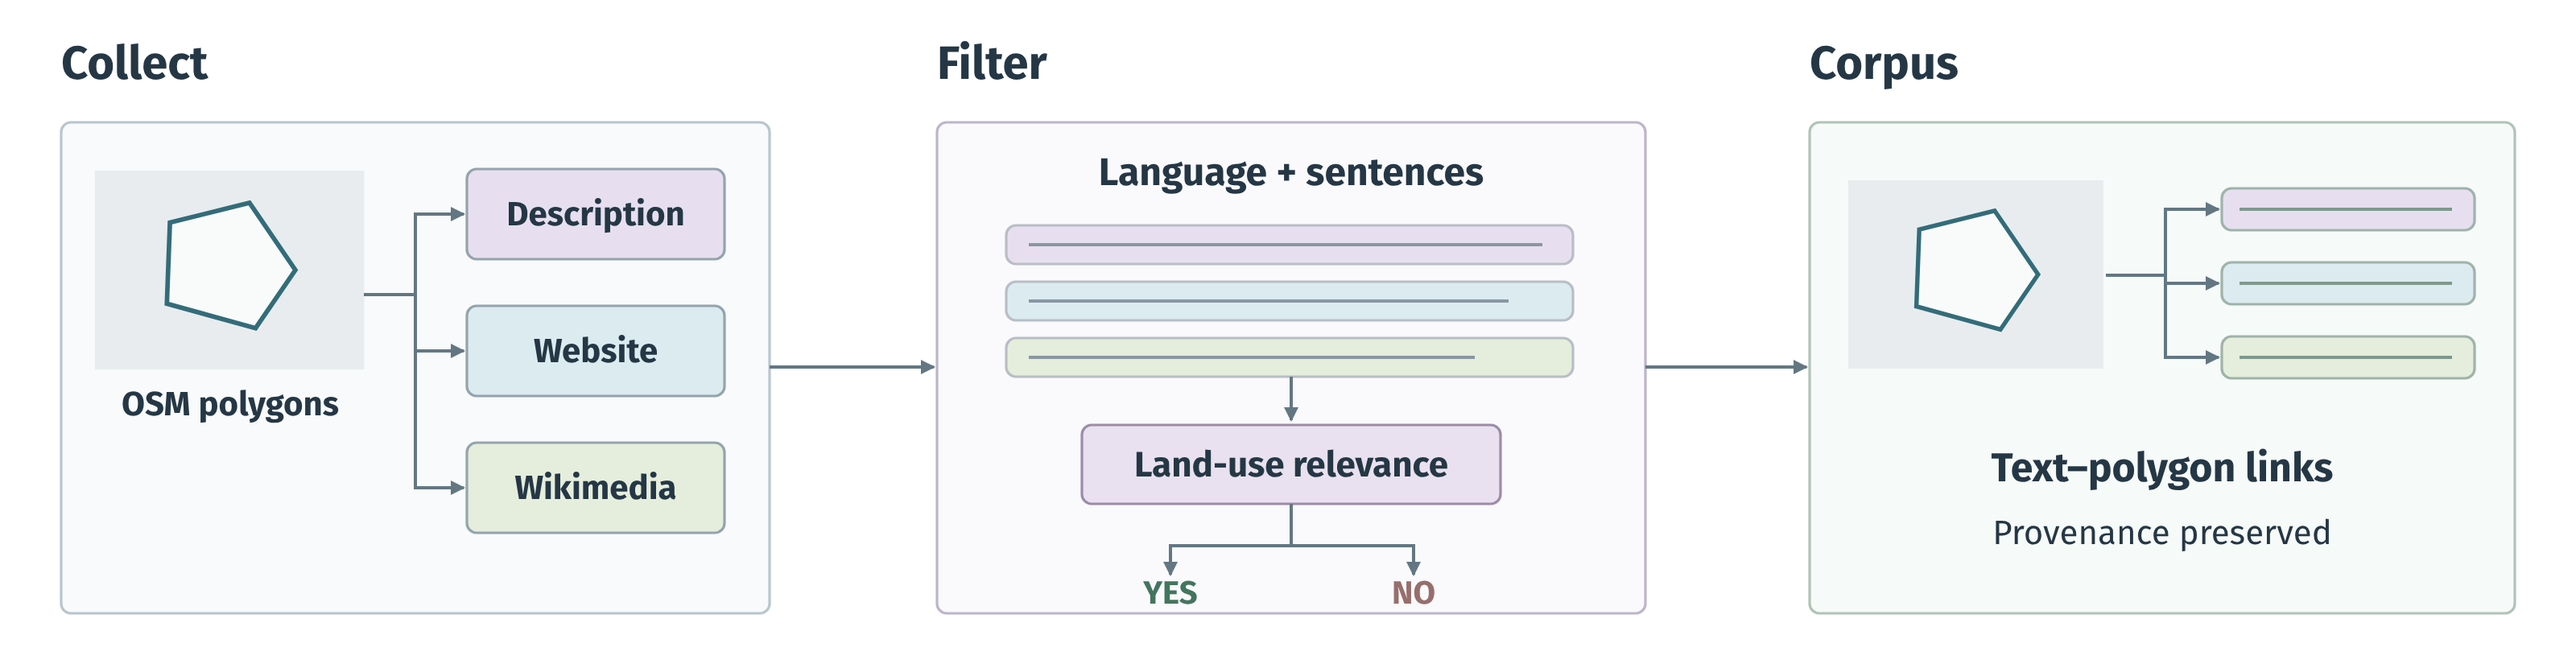
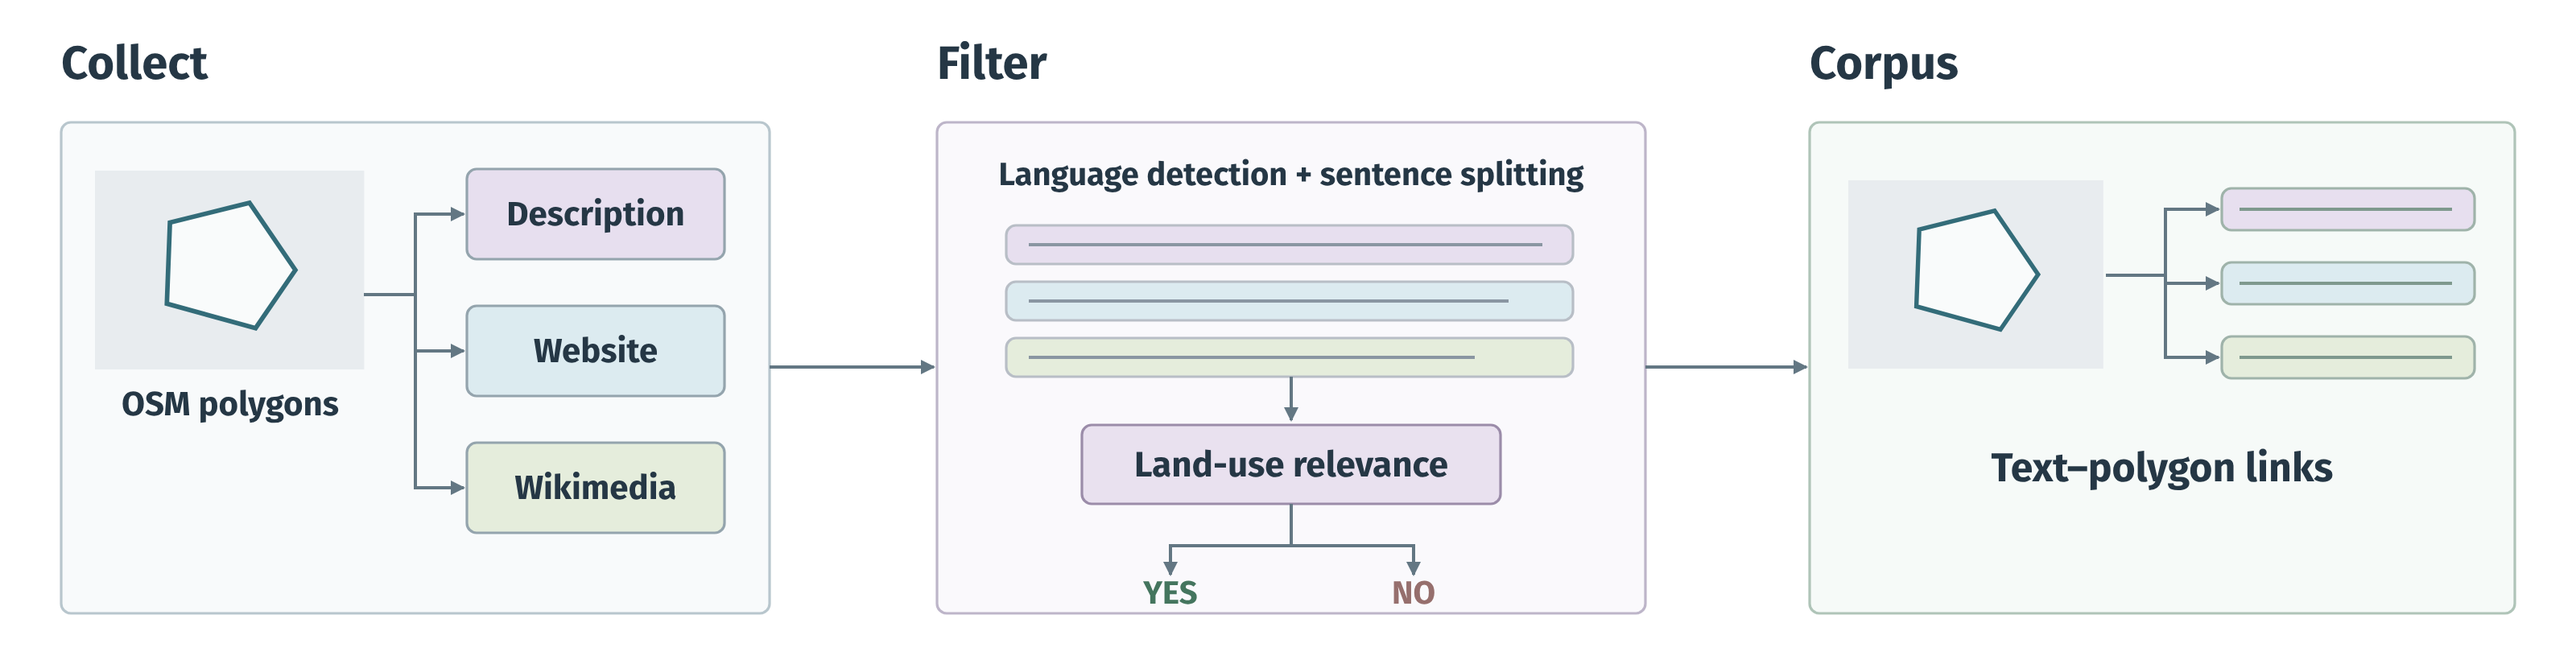
Card: concise methodology from OSM to labels, with links
Hero figure: spell out language detection and sentence splitting; drop the
provenance subtitle.

Claude-Session: https://claude.ai/code/session_01C3uAZST1ZzZhdbb3eK7ACM

Changed region(s): [[0.375, 0.2439, 0.625, 0.3049], [0.7812, 0.7927, 0.9062, 0.8232]]

diff --git a/src/georeset/publish/card.py b/src/georeset/publish/card.py
@@ -147,7 +147,7 @@ def render(ctx: Context) -> str:
             {"source": ("Source", str), "failed": ("`failed`", fmt), "unsplit": ("`unsplit`", fmt)},
         ),
         sources="\n".join(
-            f"* [`{repo}` @ `{rev[:7]}`](https://huggingface.co/datasets/{repo}/tree/{rev})"
+            f"   * [`{repo}` @ `{rev[:7]}`](https://huggingface.co/datasets/{repo}/tree/{rev})"
             for repo, rev in ctx.sources.items()
         ),
         code_url=ctx.code_url,

diff --git a/src/georeset/publish/templates/card.md b/src/georeset/publish/templates/card.md
@@ -6,7 +6,7 @@ $front_matter
 
 # GeoReSeT Corpus
 
-**$sentences sentences in $languages languages, tied to $polygons OpenStreetMap polygons in $regions regions, each labelled for land-use / land-cover relevance.**
+**$sentences sentences in $languages languages, tied to $polygons OpenStreetMap polygons in $regions regions, each labelled for land-use / land-cover relevance by an LLM.**
 
 Sentences come from the websites, `description` tags and Wikipedia / Wikivoyage articles linked to OpenStreetMap polygons. Every row is one sentence with a boolean `landuse` label, the language, and the location of the polygon it describes. Polygon shapes are in a separate `polygons` table.
 
@@ -50,7 +50,7 @@ $continents
 |---|---|---|
 | `id` | string | Stable id of the sentence (128-bit hex) |
 | `text` | string | The sentence, byte-exact as labelled |
-| `landuse` | bool | Relevant to land use / land cover |
+| `landuse` | bool | The sentence describes land use, land cover or a geographic environment observable by remote sensing (LLM label) |
 | `language` | string | ISO 639-3 + script (`fra_Latn`), see [Languages](#languages) |
 | `source` | string | `website`, `osm_description`, `wikipedia` or `wikivoyage` |
 | `polygon_ids` | list[string] | All polygons the sentence's document is linked to (`way/123`, `relation/45`) |
@@ -96,16 +96,18 @@ The `unlabelled` config holds sentences without a usable label, kept to be label
 
 $unlabelled
 
-## How it was made
+## Methodology
 
-1. OpenStreetMap polygons with a website, a `description` tag, or a Wikidata link to Wikipedia / Wikivoyage were extracted per [Geofabrik](https://download.geofabrik.de) region.
-2. Texts were split into sentences and each sentence labelled by `LiquidAI/LFM2.5-2.6B` for land-use / land-cover relevance. Labels, method and quality checks are documented in the source datasets:
+1. **Polygons.** Closed ways and multipolygon relations from the 386 regional [Geofabrik](https://download.geofabrik.de) extracts of OpenStreetMap, assembled with [osmium](https://osmcode.org/libosmium/).
+2. **Text.** Three kinds of text attached to a polygon:
+   * websites in `website` / `contact:website` tags, fetched and extracted with [Trafilatura](https://trafilatura.readthedocs.io): [`osm-polygon-website-tag`](https://huggingface.co/datasets/NoeFlandre/osm-polygon-website-tag) ([code](https://github.com/NoeFlandre/osm-polygon-website-tag));
+   * `description` and `description:*` tags: [`osm-polygon-description-tag`](https://huggingface.co/datasets/NoeFlandre/osm-polygon-description-tag) ([code](https://github.com/NoeFlandre/osm-polygon-description-tag));
+   * Wikipedia and Wikivoyage articles reached through the `wikidata` tag: [`osm-polygon-wikidata-and-wikipedia`](https://huggingface.co/datasets/NoeFlandre/osm-polygon-wikidata-and-wikipedia) ([code](https://github.com/NoeFlandre/osm-polygon-wikidata-only)).
+3. **Language.** [GlotLID v3](https://huggingface.co/cis-lmu/glotlid) for websites, [Lingua](https://github.com/pemistahl/lingua-py) with GlotLID fallback for descriptions, the language edition for Wikipedia and Wikivoyage (see [Languages](#languages)).
+4. **Sentences.** Split with [SaT `sat-3l-sm`](https://huggingface.co/segment-any-text/sat-3l-sm) in its 85 languages; text in other languages is left whole (`unsplit`).
+5. **Labels.** Each sentence is classified by [`LiquidAI/LFM2.5-2.6B`](https://huggingface.co/LiquidAI/LFM2.5-2.6B): does it describe land use, land cover or a geographic environment observable by remote sensing? Greedy decoding with reasoning, up to 4,096 tokens, served with SGLang and the [DSpark](https://huggingface.co/LiquidAI/LFM2.5-2.6B-DSpark) draft model, on about 4,500 GPU-hours of [Grid'5000](https://www.grid5000.fr). The model and prompt were chosen on [`benchmark-llms-landuse-relevance`](https://huggingface.co/datasets/NoeFlandre/benchmark-llms-landuse-relevance) (53 models, 25,500 labelled sentences in 85 languages), where this setup reaches macro F1 0.81 and balanced accuracy 0.77. Labels and raw model outputs, with reasoning ([code](https://github.com/NoeFlandre/filter-osm-datasets-llms-landuse)):
 $sources
-3. This dataset merges them: one row per sentence of each document (a document linked to several polygons appears once), overlapping regions resolved to the most specific extract, language codes normalized, sentences with fewer than two letters dropped.
-
-The model's raw outputs, including its reasoning, stay in the source datasets: join them on `sha256(text)` = `text_sha256`.
-
-Code: $code_url
+6. **This dataset.** One row per sentence of each document (a document linked to several polygons appears once); overlapping extracts resolved to the most specific one; language codes normalized; sentences with fewer than two letters dropped. Join the raw outputs on `sha256(text)` = `text_sha256`. Code: $code_url
 
 ## License
 
